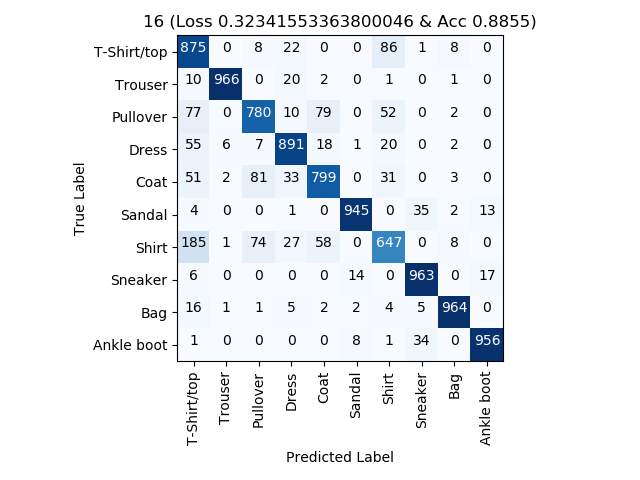
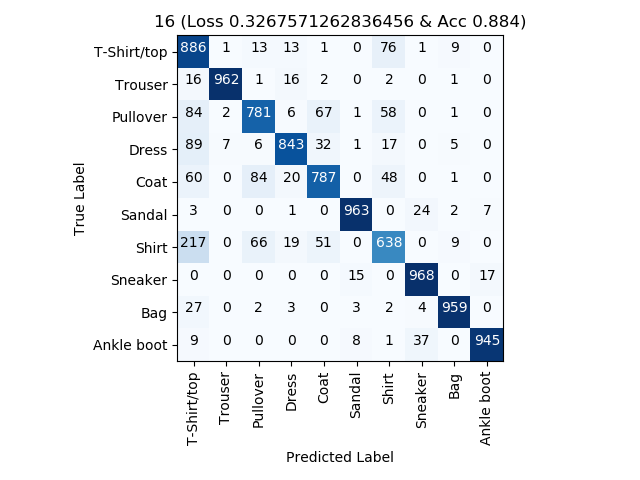
Adds data & script updates

diff --git a/models.py b/models.py
@@ -55,6 +55,7 @@ def basic_neural(model_params, shape):
     model.add(InputLayer(input_shape=(shape[1], shape[2], shape[3])))
     model.add(BatchNormalization())
 
+    model.add(Dropout(model_params['dropout']))
     model.add(Flatten())
 
     model.add(Dense(model_params['dense_1'], activation=model_params['activate_1']))
@@ -82,9 +83,10 @@ def basic_cnn(model_params, shape):
 
     model.add(Conv2D(model_params['conv_filters'],
                      model_params['kernel_size'],
+                     strides=model_params['kernel_stride'],
                      padding='same'))
-    #model.add(MaxPooling2D(padding='same'))
-    #model.add(Dropout(0.1))
+    model.add(MaxPooling2D(padding='same'))
+    model.add(Dropout(model_params['dropout']))
     model.add(Flatten())
 
     model.add(Dense(model_params['dense_1'], activation=model_params['activate_1']))
@@ -112,7 +114,7 @@ def basic_rnn(model_params, shape):
     model.add(SimpleRNN(model_params['conv_filters']))
     #model.add(MaxPool2D(padding='same'))
     #model.add(MaxPooling1D(padding='same'))
-    model.add(Dropout(0.1))
+    model.add(Dropout(model_params['dropout']))
     #model.add(AveragePooling2D(padding='same'))
     #model.add(Flatten())
 
@@ -139,12 +141,17 @@ def double_cnn(model_params, shape):
     model.add(InputLayer(input_shape=(shape[1], shape[2], shape[3])))
     model.add(BatchNormalization())
 
+    model.add(InputLayer(input_shape=(shape[1], shape[2], shape[3])))
+    model.add(BatchNormalization())
+
     model.add(Conv2D(model_params['conv_filters'],
-                     (model_params['nb_pool'], model_params['nb_conv']),
+                     model_params['kernel_size'],
+                     strides=model_params['kernel_stride'],
                      padding='same'))
     model.add(MaxPooling2D(padding='same'))
-    model.add(Conv2D(model_params['conv_filters'],
-                     (model_params['nb_pool'], model_params['nb_conv']),
+
+    model.add(Conv2D(10,
+                     2,
                      padding='same'))
     model.add(MaxPooling2D(padding='same'))
     model.add(Dropout(model_params['dropout']))
@@ -160,6 +167,23 @@ def double_cnn(model_params, shape):
 
     print(model.summary())
     return model
+
+
+def pre_compiled_model(model_params):
+	from keras.applications.resnet50 import ResNet50
+	from keras.preprocessing import image
+	from keras.applications.resnet50 import preprocess_input, decode_predictions
+	import numpy as np
+
+	model = ResNet50(weights='imagenet')
+
+	img_path = 'elephant.jpg'
+	img = image.load_img(img_path, target_size=(224, 224))
+	x = image.img_to_array(img)
+	x = np.expand_dims(x, axis=0)
+	x = preprocess_input(x)
+
+	preds = model.predict(x)
 
 
 def fit_model(model, model_params, x_train, y_train, x_test, y_test):

diff --git a/loader.py b/loader.py
@@ -90,22 +90,24 @@ def main(args):
         os.makedirs(args.out)
 
     # Creates range to loop filter between
-    change = 'conv_filters'
-    range = [2, 4, 8, 12, 14, 16, 20, 24, 28, 32]
+    change = 'dropout'
+    range = [0.05, 0.1, 0.15]
     history_dict = {x: {'loss': 0.0, 'acc': 0.0} for x in range}
 
     # Runs Model
     for new in range:
         history_dict[new] = {'loss': [], 'acc': []}
-        for loop in [1, 2, 3]:
+        for loop in [1, 2, 3, 4, 5]:
             print('Creating Model with the {} {}'.format(new, change))
             model_params = params.standard()
-            model_params['conv_filters'] = new
+            model_params['dropout'] = new
 
             if args.model == 'rnn':
                 model = models.basic_rnn(model_params, x_train.shape)
             elif args.model == 'neural':
                 model = models.basic_neural(model_params, x_train.shape)
+            elif args.model == 'double':
+                model = models.double_cnn(model_params, x_train.shape)
             else:
                 model = models.basic_cnn(model_params, x_train.shape)
 

diff --git a/params.py b/params.py
@@ -10,8 +10,9 @@ def standard():
     params = {}
 
     # Build Parameters
-    params['conv_filters'] = 24
-    params['kernel_size'] = 2
+    params['conv_filters'] = 20
+    params['kernel_size'] = 4
+    params['kernel_stride'] = 1
     # params['optimizer'] = 'nadam'  # Used for CNN
     params['optimizer'] = 'adam'  # Used for Neural
     params['loss'] = 'categorical_crossentropy'
